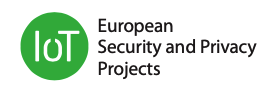
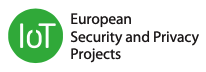
New updates
TYpe in one speaker name + Reduced the size of the IoT_ESP logo (asked
by Enrico)

Changed region(s): [[0.0291, 0.1111, 0.9903, 0.8889]]

diff --git a/content/2020/sam-iot/_index.md b/content/2020/sam-iot/_index.md
@@ -173,7 +173,7 @@ Susan Iwai, Eclipse Foundation
   #### **Supported by:**
   
   [![Brain IoT](images/brain_iot_logo.png)](http://brain-iot.eu)
-  [![European Security and Privacy Projects](images/IoT_ESP_Small.png.png)](https://www.ngiot.eu/community/iot-esp-projects)
+  [![European Security and Privacy Projects](images/IoT_ESP_Small.png)](https://www.ngiot.eu/community/iot-esp-projects)
 {{</ grid/div >}}
 
 {{< grid/div class="col-md-8 padding-bottom-20" isMarkdown="true">}}
